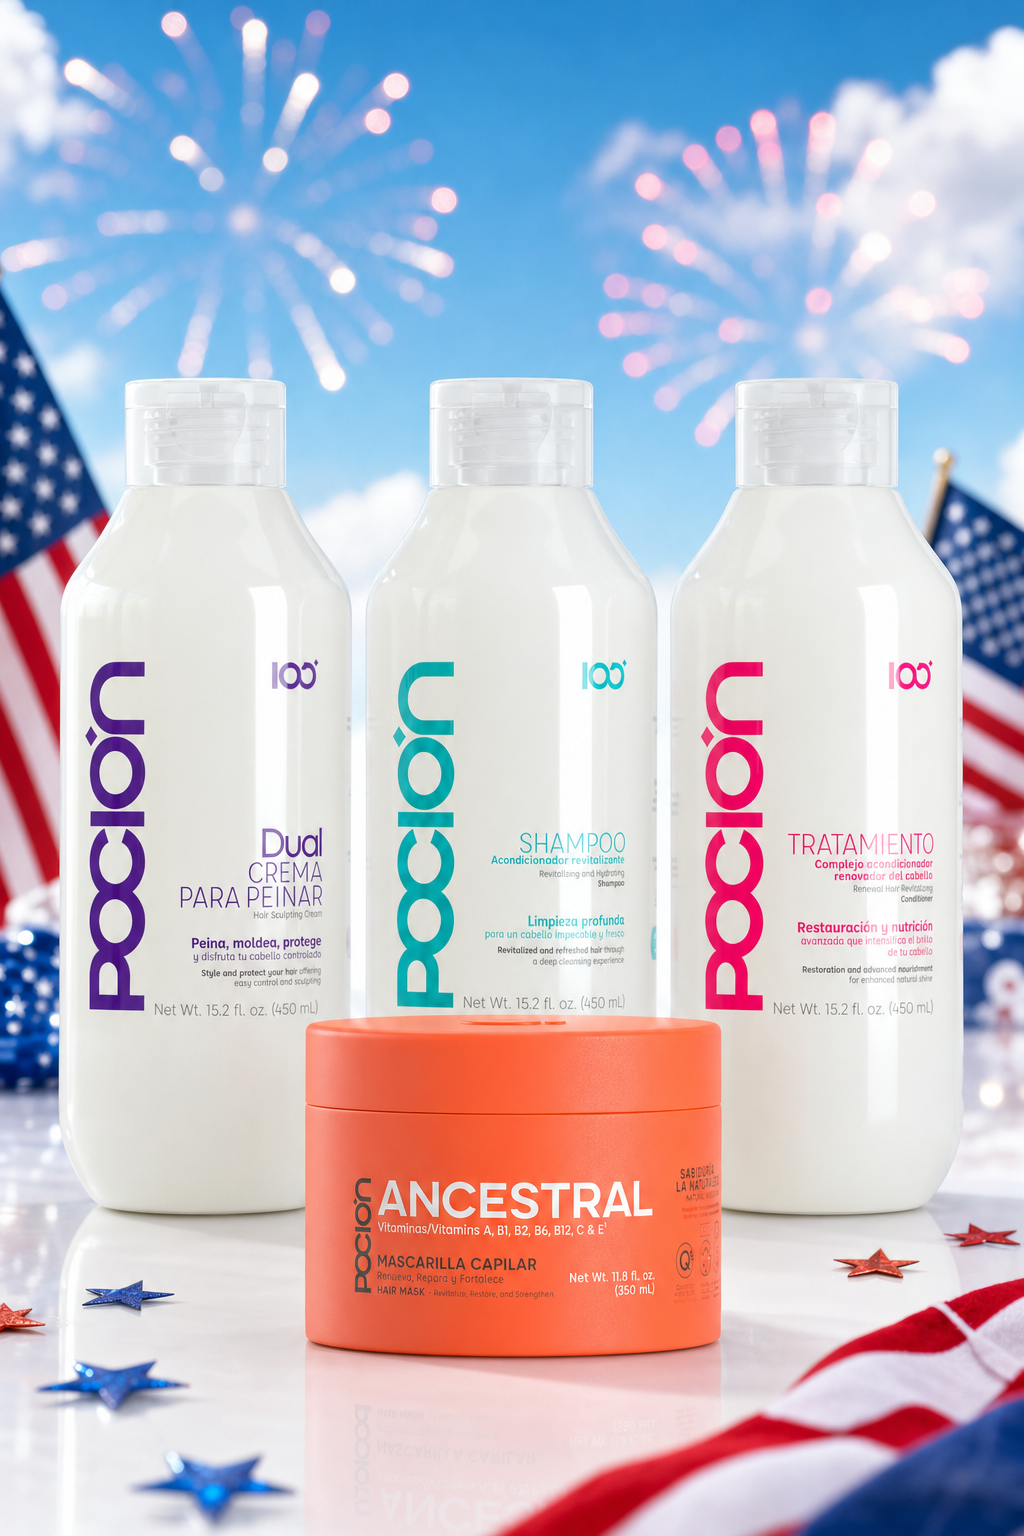
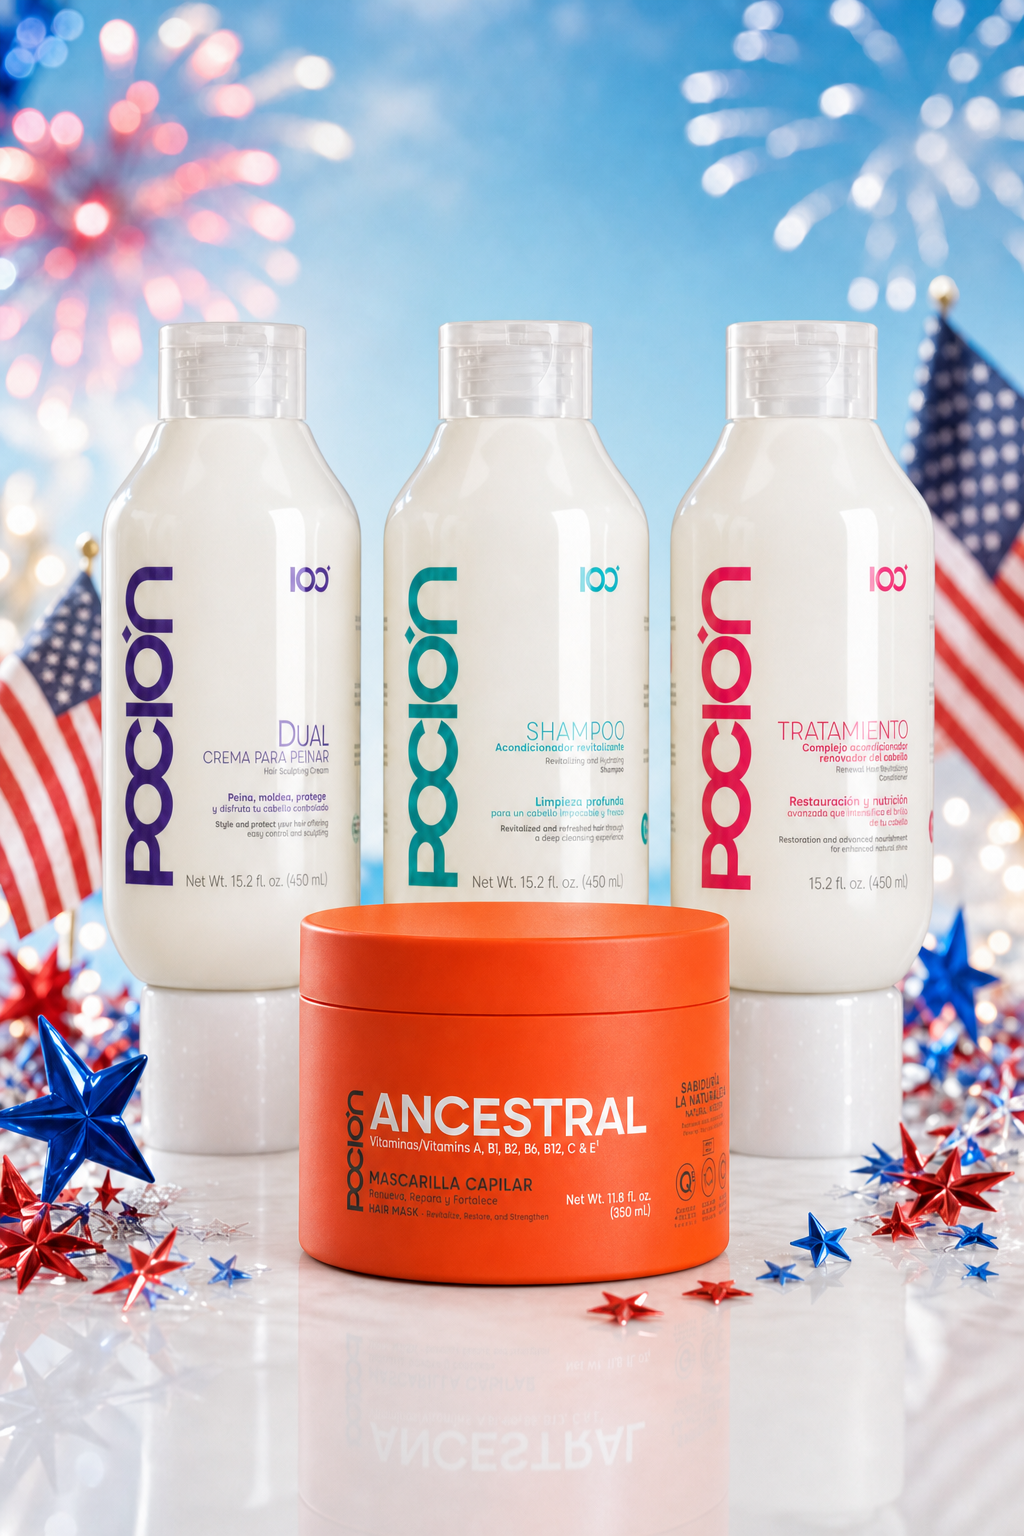
Regenerate F 4-piece to match the accurate 5-piece bottle shape
Recreated the shot from the page's own 5-piece image (the accurate
reference) minus the dropper, so the bottles share the same wide, stout
body and flat disc cap as the other kits instead of looking narrow/tall.

diff --git a/index.html b/index.html
@@ -703,7 +703,7 @@ footer .pay{background:transparent;border-color:rgba(255,255,255,.2);color:#9AA9
       <!-- KIT 2 -->
       <article class="kit reveal" id="kit-4">
         <div class="kit-media"><div class="kit-badge">Strength &amp; Growth</div><div class="kit-num">02</div>
-          <div class="tilt"><img src="images/lux/kit-4piece.png?v=f5" alt="4-Piece Strength & Growth Ritual"><div class="glare"></div></div></div>
+          <div class="tilt"><img src="images/lux/kit-4piece.png?v=f6" alt="4-Piece Strength & Growth Ritual"><div class="glare"></div></div></div>
         <div class="kit-body">
           <span class="kit-tagline">The Daily Anthem</span>
           <h3>4-Piece Strength &amp; Growth</h3>
@@ -1008,7 +1008,7 @@ footer .pay{background:transparent;border-color:rgba(255,255,255,.2);color:#9AA9
       </div>
       <div class="foot-col"><h5>Shop</h5>
         <a href="#kit-5" class="foot-shop"><img src="images/lux/kit-5piece.png?v=f2" alt="">Deep Repair</a>
-        <a href="#kit-4" class="foot-shop"><img src="images/lux/kit-4piece.png?v=f5" alt="">Strength &amp; Growth</a>
+        <a href="#kit-4" class="foot-shop"><img src="images/lux/kit-4piece.png?v=f6" alt="">Strength &amp; Growth</a>
         <a href="#kit-t" class="foot-shop"><img src="images/lux/kit-tongole.png?v=f2" alt="">Tongolé Curls</a>
         <a href="#kit-b8" class="foot-shop"><img src="images/lux/kit-b8.png?v=f1" alt="">B8 Infinite Shine</a>
         <a href="#kit-k" class="foot-shop"><img src="images/lux/kit-kids.png?v=f2" alt="">Kids Tangle-Free</a>
@@ -1089,7 +1089,7 @@ function track(ev,data){ if(window.fbq){ fbq('track',ev,data); } console.log('[t
 /* ===================== CART + UPSELLS ===================== */
 var SHIP_FREE=50;
 var IMG={
-  'B0DSGYPPD7':'images/lux/kit-5piece.png?v=f2','B0DCYQV7XJ':'images/lux/kit-4piece.png?v=f5','B0DCZ1SLJK':'images/lux/kit-tongole.png?v=f2','B0DCZ64HBD':'images/lux/kit-b8.png?v=f1','B0FV7VB3TW':'images/lux/kit-kids.png?v=f2',
+  'B0DSGYPPD7':'images/lux/kit-5piece.png?v=f2','B0DCYQV7XJ':'images/lux/kit-4piece.png?v=f6','B0DCZ1SLJK':'images/lux/kit-tongole.png?v=f2','B0DCZ64HBD':'images/lux/kit-b8.png?v=f1','B0FV7VB3TW':'images/lux/kit-kids.png?v=f2',
   'ADDON-BOOSTER':'images/upsell/booster.webp','ADDON-TERMO':'images/upsell/termoprotector.webp','ADDON-OIL':'images/upsell/b8oil.png','ADDON-R3START':'images/upsell/r3start.png'
 };
 var ADDONS=[
